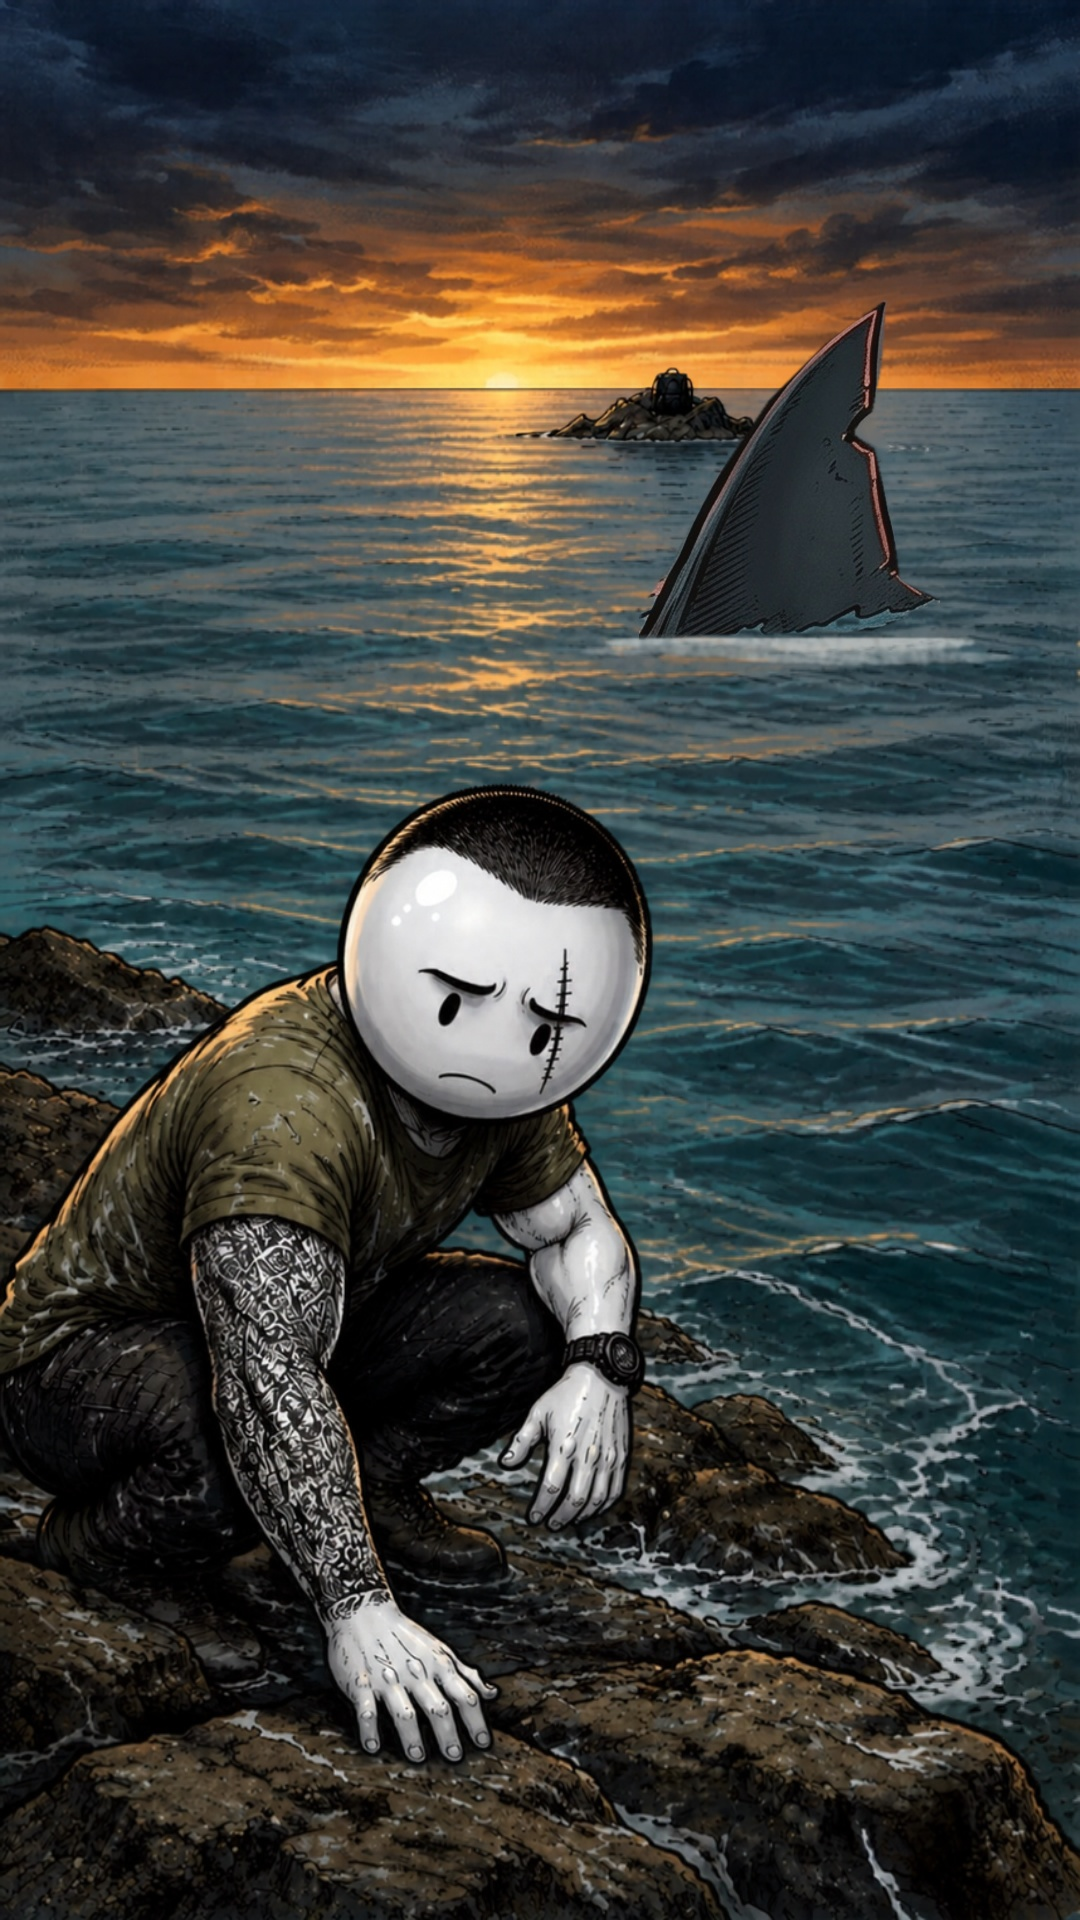
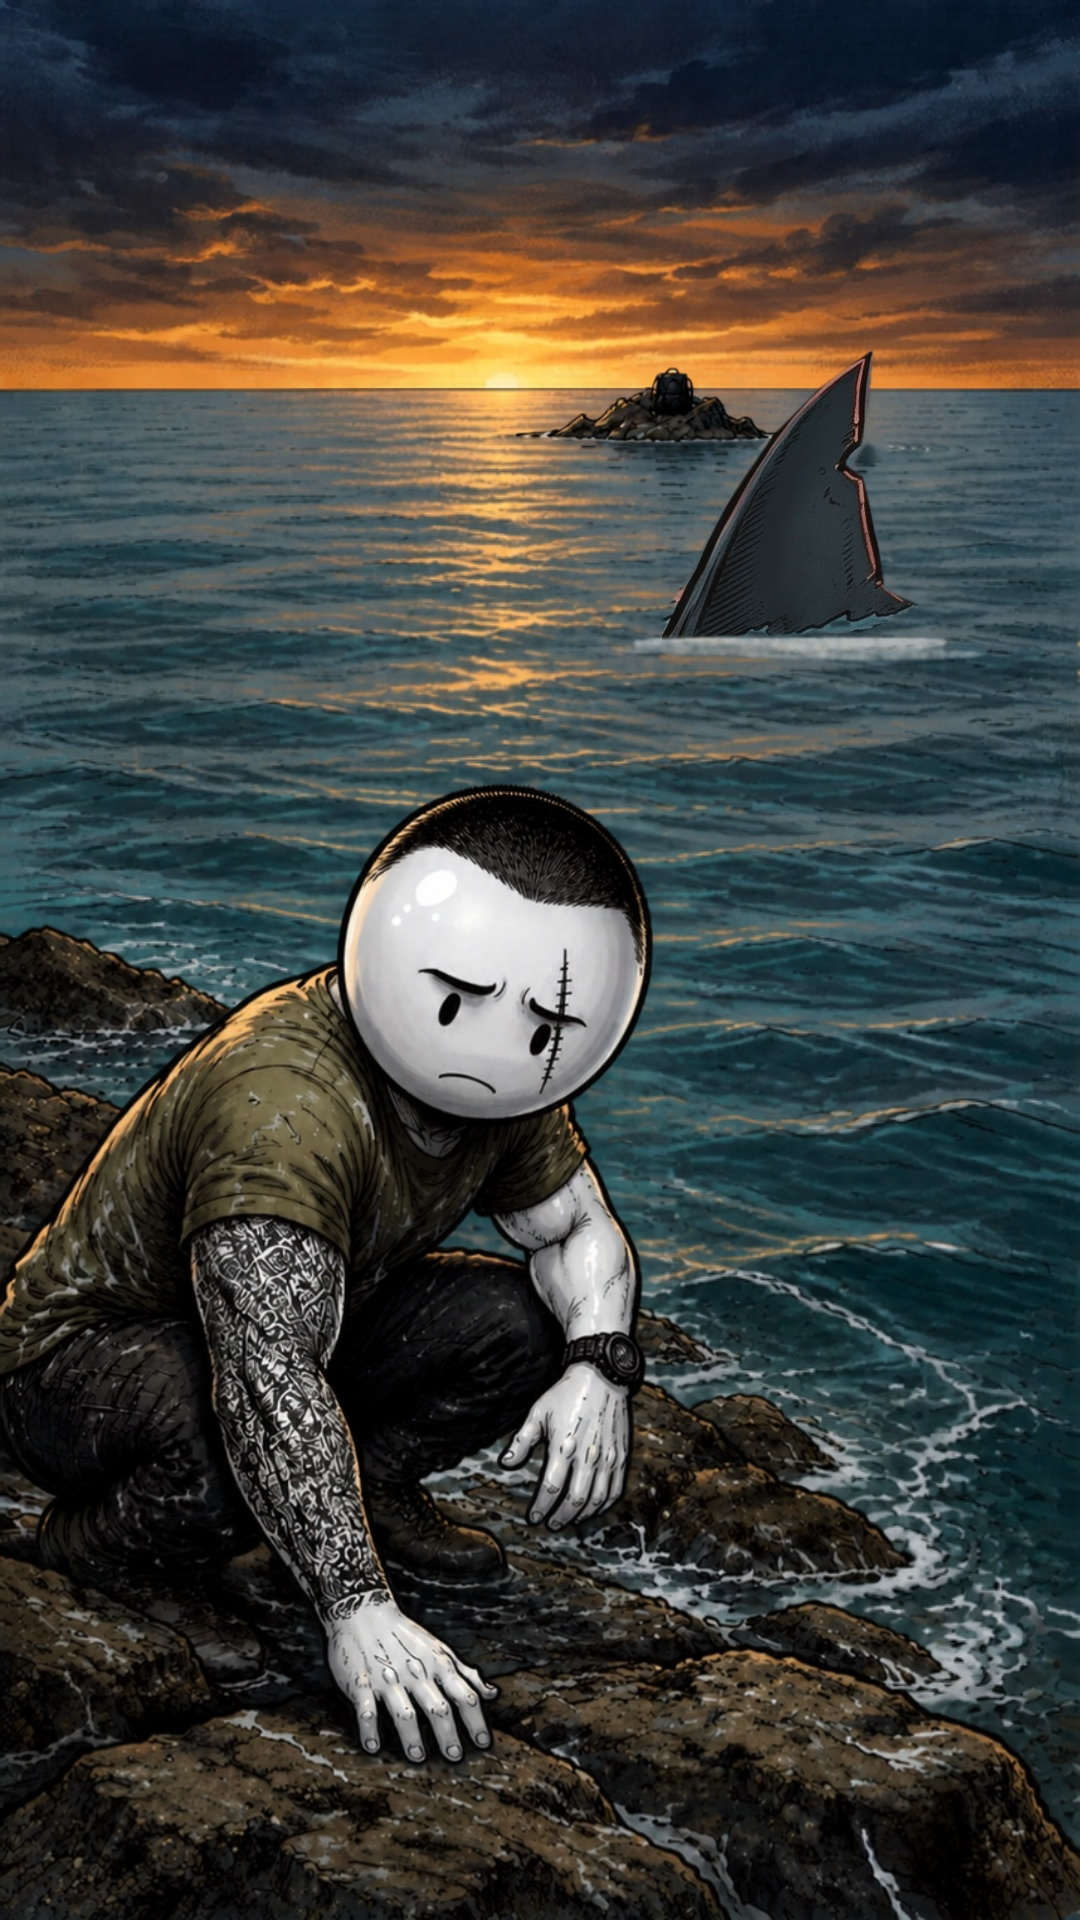
ADA 9: yüzgeç boyları sahne oranına göre dengelendi
Claude-Session: https://claude.ai/code/session_014JxJGGMAcsX945kBrKhihb

Changed region(s): [[0.55, 0.1562, 0.9167, 0.3438]]

diff --git a/hikaye-video/projeler/ada9/yuzgec-08.py b/hikaye-video/projeler/ada9/yuzgec-08.py
@@ -6,10 +6,10 @@ G = os.path.join(os.path.dirname(__file__), '..', '..', 'gorseller', 'ada9')
 POLY = [(852, 944), (848, 1000), (840, 1040), (822, 1058), (842, 1072), (858, 1140), (864, 1186), (902, 1204), (840, 1228),
         (700, 1232), (640, 1236), (642, 1210), (668, 1170), (705, 1100), (752, 1030), (800, 982)]
 CFG = {  # boy: yüzgeç yüksekliği, taban: suya girdiği nokta, sil: eski küçük yüzgecin kutusu, rim: kırmızı kenar şiddeti, ton: sahne rengi
-    '07': dict(boy=340, taban=(790, 640), sil=(838, 402, 905, 458), rim=0.55, ton=(60, 75, 85), kopuk=0.55),
-    '09a': dict(boy=450, taban=(1243, 960), sil=(1205, 730, 1290, 808), rim=0.5, ton=(75, 80, 85), kopuk=0.7),
-    '09b': dict(boy=540, taban=(795, 1290), sil=(690, 1045, 960, 1300), rim=0.0, ton=(70, 90, 20), kopuk=0.95),
-    '15': dict(boy=700, taban=(640, 1850), sil=None, rim=0.7, ton=(70, 80, 40), kopuk=0.0)}
+    '07': dict(boy=290, taban=(790, 640), sil=(838, 402, 905, 458), rim=0.55, ton=(60, 75, 85), kopuk=0.55),
+    '09a': dict(boy=580, taban=(1225, 1110), sil=(1205, 730, 1290, 808), rim=0.5, ton=(75, 80, 85), kopuk=0.7),
+    '09b': dict(boy=520, taban=(795, 1290), sil=(690, 1045, 960, 1300), rim=0.0, ton=(70, 90, 20), kopuk=0.95),
+    '15': dict(boy=600, taban=(640, 1840), sil=None, rim=0.7, ton=(70, 80, 40), kopuk=0.0)}
 
 
 def sprite():
